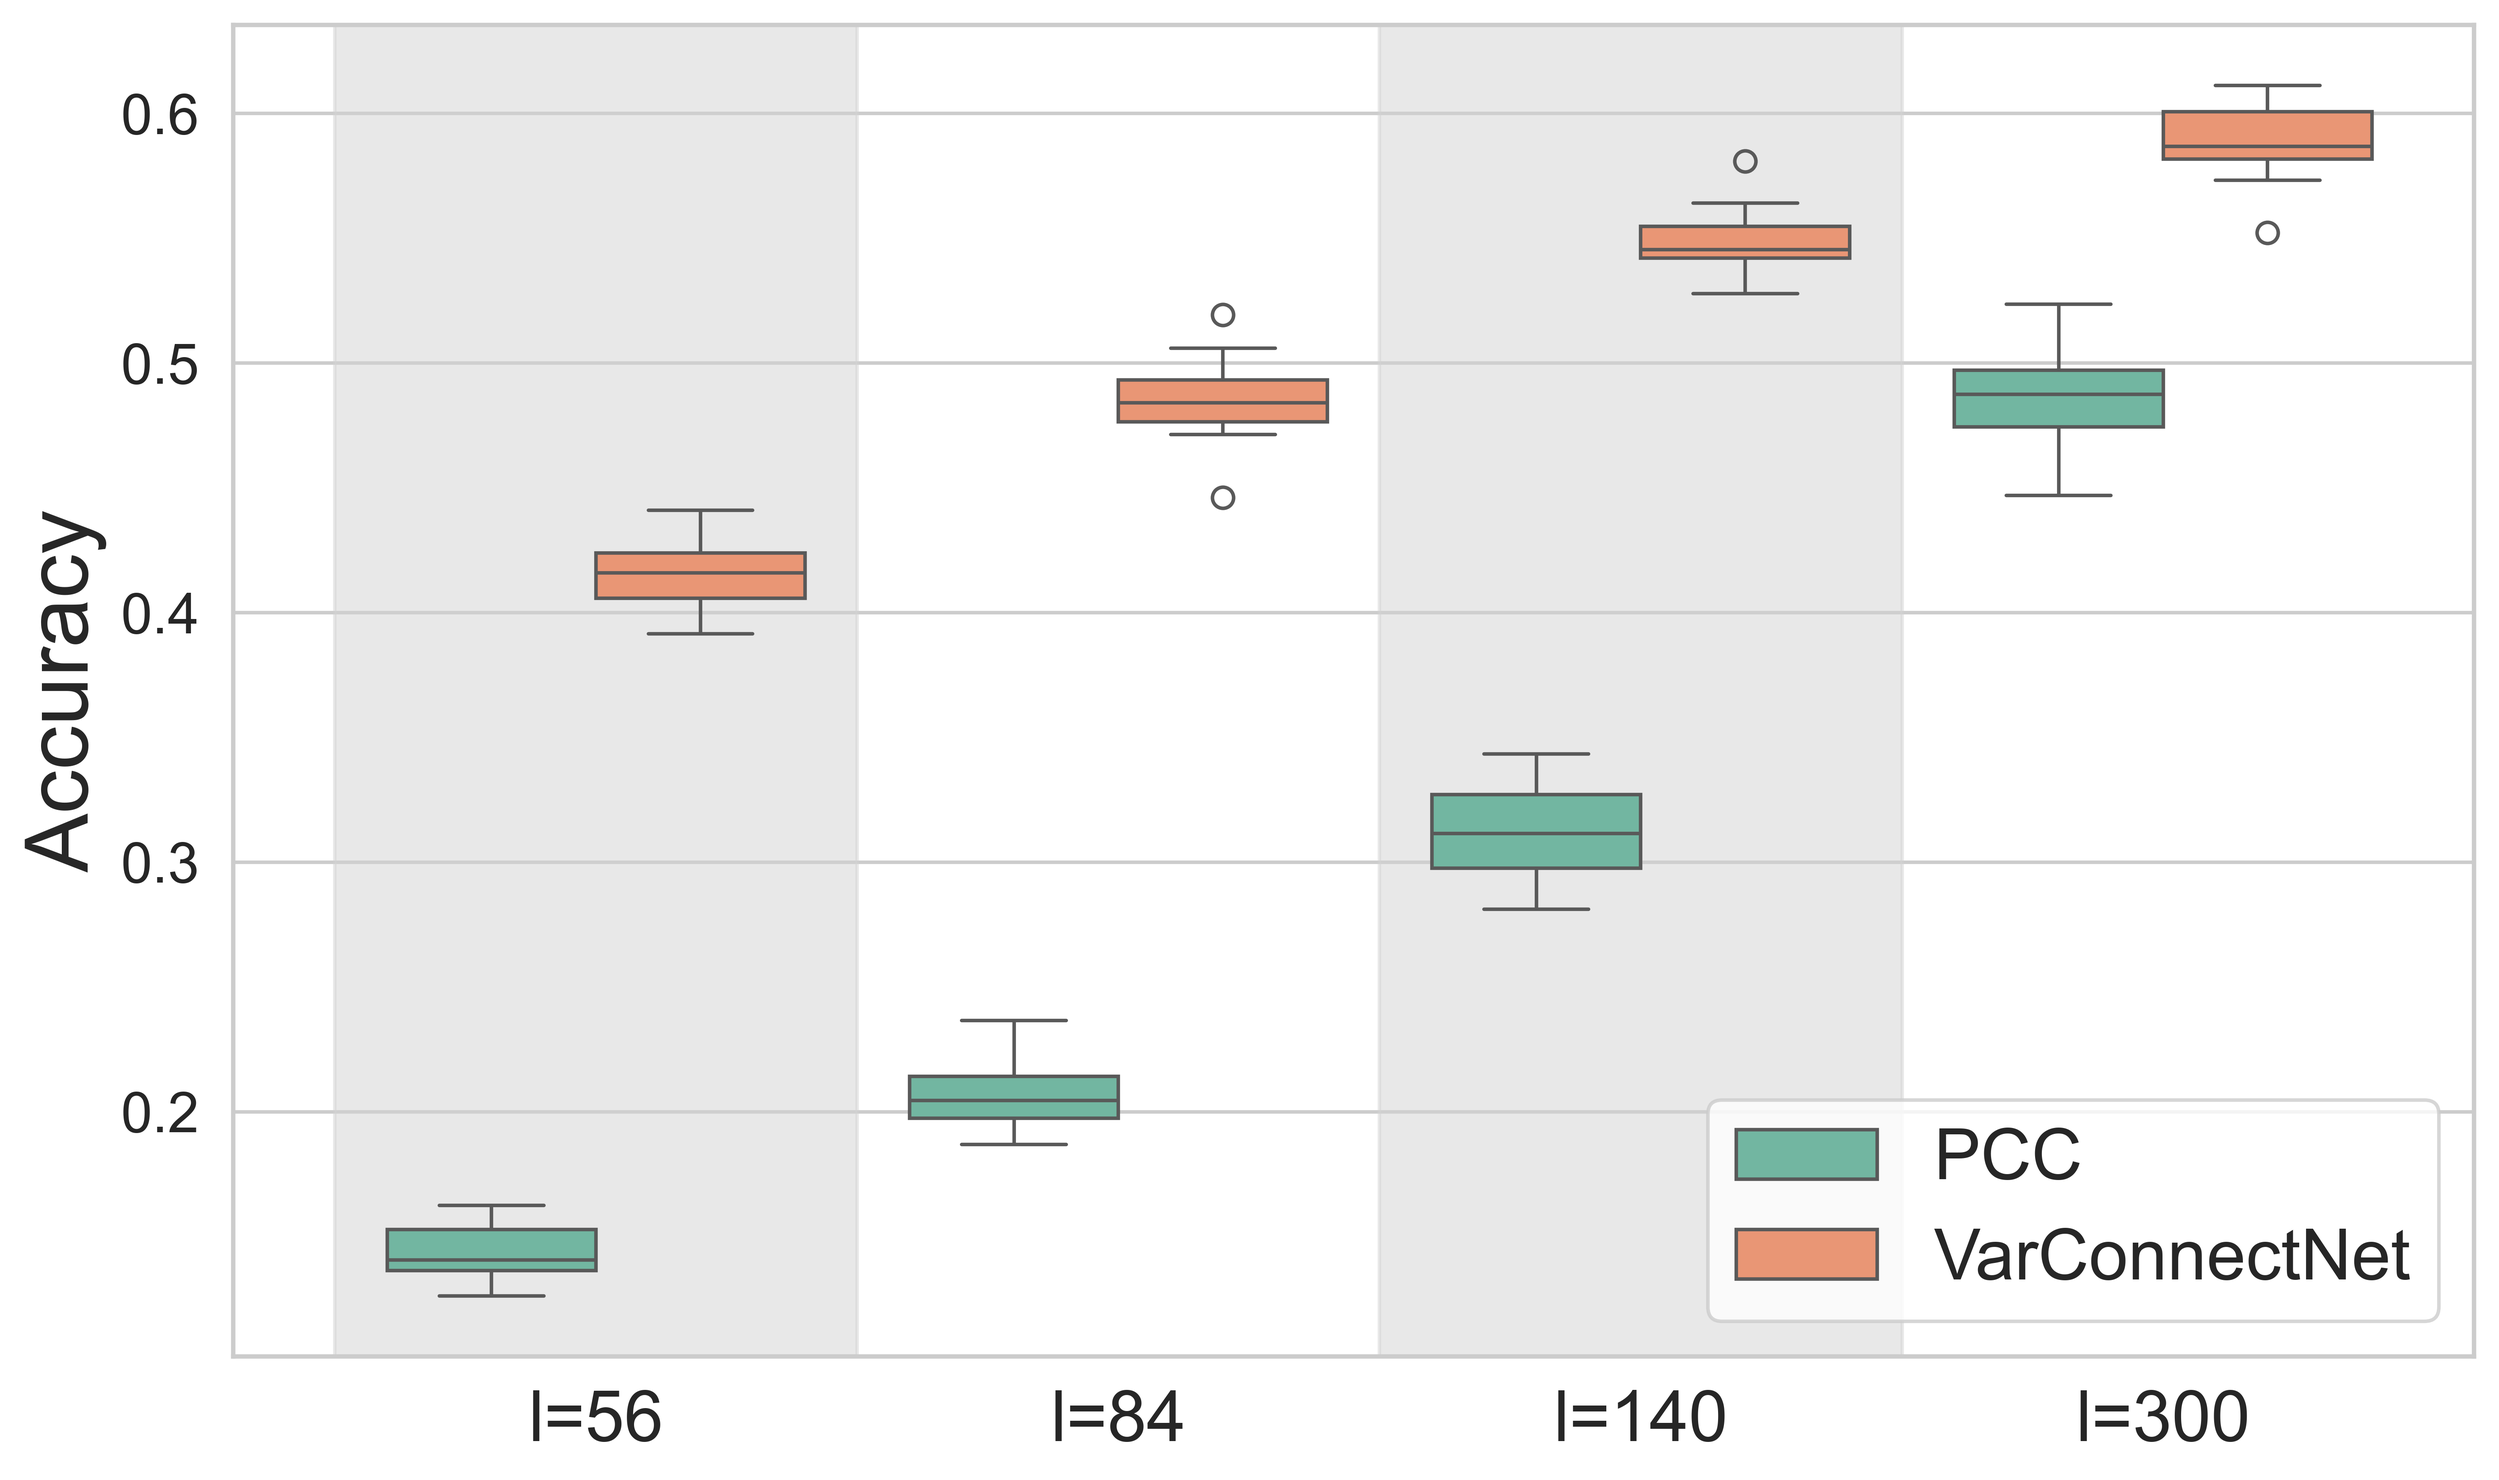
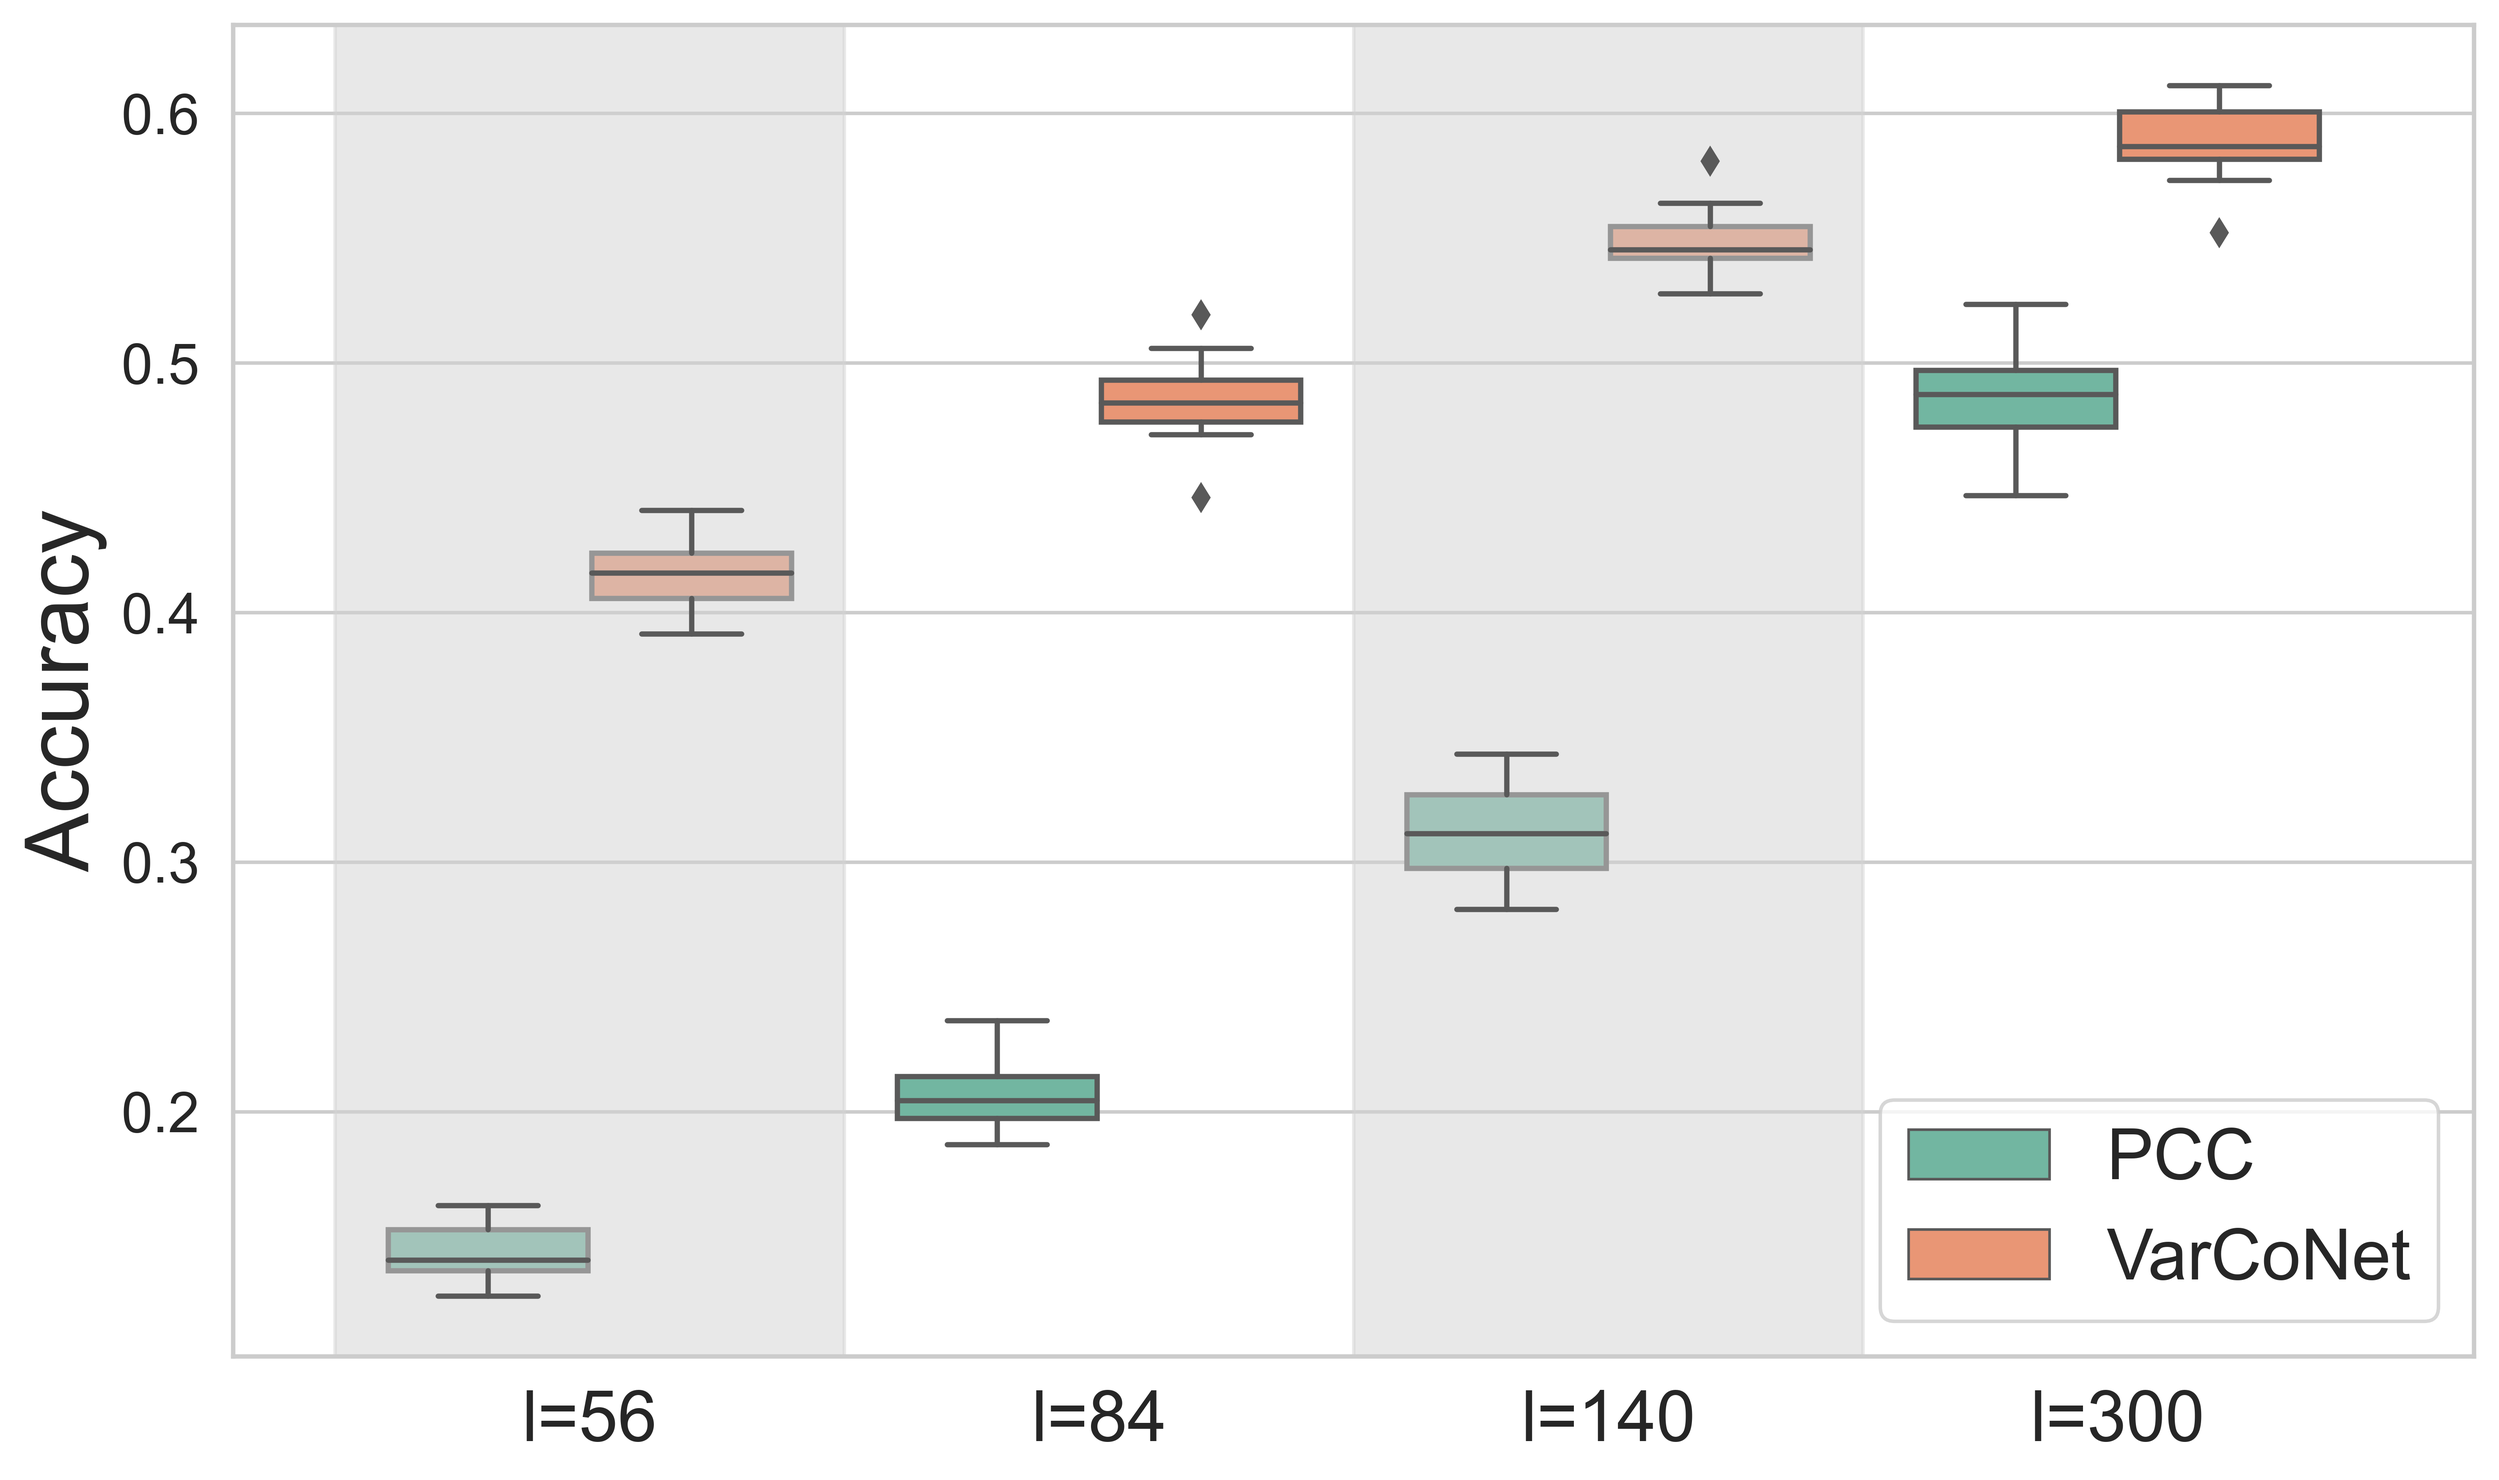
Update

diff --git a/plot_results_task1.py b/plot_results_task1.py
@@ -123,7 +123,7 @@ fig.update_layout(
         font=dict(size=16)  # Change the legend font size
     )
 )
-fig.write_image('subject_fingerprinting_rates_final.png',scale=8, engine = "orca")
+#fig.write_image('subject_fingerprinting_rates_final.png',scale=8, engine = "orca")
 
 
 
@@ -148,7 +148,7 @@ fig.update_layout(
 )
 
 # Save the figure as a high-resolution image (optional)
-fig.write_image('task1_training_loss.png', scale=8, engine = "orca")
+#fig.write_image('task1_training_loss.png', scale=8, engine = "orca")
 
 
 accs1_pcc = np.load('pcc_acc_l_56.npy')
@@ -176,7 +176,7 @@ for i in range(len(group)):
     groups.extend([group[i]] * 15)
     
     data.extend(accs[i])
-    labels.extend(['VarConnectNet'] * 15)
+    labels.extend(['VarCoNet'] * 15)
     groups.extend([group[i]] * 15)
     
 
@@ -199,4 +199,44 @@ plt.yticks(fontsize=16)
 plt.tight_layout()
 
 plt.savefig('comparison_boxplot.png', dpi=600, bbox_inches='tight')
+plt.show()
+
+
+
+data = []
+labels = []
+groups = []
+
+group = ['T=40 s','T=60 s','T=100 s','T=216 s']
+for i in range(len(group)):
+    data.extend(accs_pcc[i])
+    labels.extend(['PCC'] * 15)
+    groups.extend([group[i]] * 15)
+    
+    data.extend(accs[i])
+    labels.extend(['VarCoNet'] * 15)
+    groups.extend([group[i]] * 15)
+    
+
+df = pd.DataFrame({'Value': data, 'Method': labels, 'Group': groups})
+
+rgb_color = (240/255, 238/255, 231/255)
+fig = plt.figure(figsize=(10, 6))
+fig.patch.set_facecolor(rgb_color)
+sns.set(style="whitegrid")
+
+ax = sns.boxplot(x='Group', y='Value', hue='Method', data=df, palette='Set2')
+
+for i in range(0, len(group)-1, 2):
+    ax.axvspan(i - 0.5, i + 0.5, color='lightgray', alpha=0.5)
+
+plt.ylabel('Accuracy', fontsize=25)
+plt.xlabel('')
+
+plt.legend(loc='lower right', fontsize=20)
+plt.xticks(rotation=0, fontsize=20)
+plt.yticks(fontsize=16)
+plt.tight_layout()
+
+plt.savefig('comparison_boxplot_background.png', dpi=600, bbox_inches='tight')
 plt.show()

diff --git a/get_results_task2.py b/get_results_task2.py
@@ -1,8 +1,9 @@
 import pickle
 import numpy as np
 import os  
+from scipy.stats import ttest_ind
 
-case = 'DPARSF-CC200_same_size'
+case = 'DPARSF-CC400'
 
 SL_val_aucs = np.load(os.path.join('results_ABIDE',case,'ABIDE_SL_ValAucs.npy'))
 SL_val_losses = np.load(os.path.join('results_ABIDE',case,'ABIDE_SL_Vallosses.npy'))
@@ -41,6 +42,11 @@ best_val_aucs_SL = SL_val_aucs[np.arange(10),min_positions_SL]
 best_val_losses_SL = SL_val_losses[np.arange(10),min_positions_SL]
 best_test_aucs_SL = np.array(test_result_SL['test_auc'])
 best_test_losses_SL = np.array(test_result_SL['test_loss'])
+
+p_val_aucs = ttest_ind(best_val_aucs_SSL,best_val_aucs_SL)[1]
+p_val_losses = ttest_ind(best_val_losses_SSL,best_val_losses_SL)[1]
+p_test_aucs = ttest_ind(best_test_aucs_SSL,best_test_aucs_SL)[1]
+p_test_losses = ttest_ind(best_test_losses_SSL,best_test_losses_SL)[1]
 
 print(f"SSL: mean validation AUC= {np.mean(best_val_aucs_SSL):.2f}, std={np.std(best_val_aucs_SSL):.2f}")
 print(f"SSL: mean validation Loss={np.mean(best_val_losses_SSL):.2f}, std={np.std(best_val_losses_SSL):.2f}")

diff --git a/benchmark_results.py b/benchmark_results.py
@@ -89,7 +89,7 @@ std_acc5 = np.std(acc5)
 mean_acc6 = np.mean(acc6)
 std_acc6 = np.std(acc6)
 
-np.save('pcc_acc_l_56.npy',acc1)
-np.save('pcc_acc_l_84.npy',acc2)
-np.save('pcc_acc_l_140.npy',acc4)
-np.save('pcc_acc_l_300.npy',acc6)
+#np.save('pcc_acc_l_56.npy',acc1)
+#np.save('pcc_acc_l_84.npy',acc2)
+#np.save('pcc_acc_l_140.npy',acc4)
+#np.save('pcc_acc_l_300.npy',acc6)
